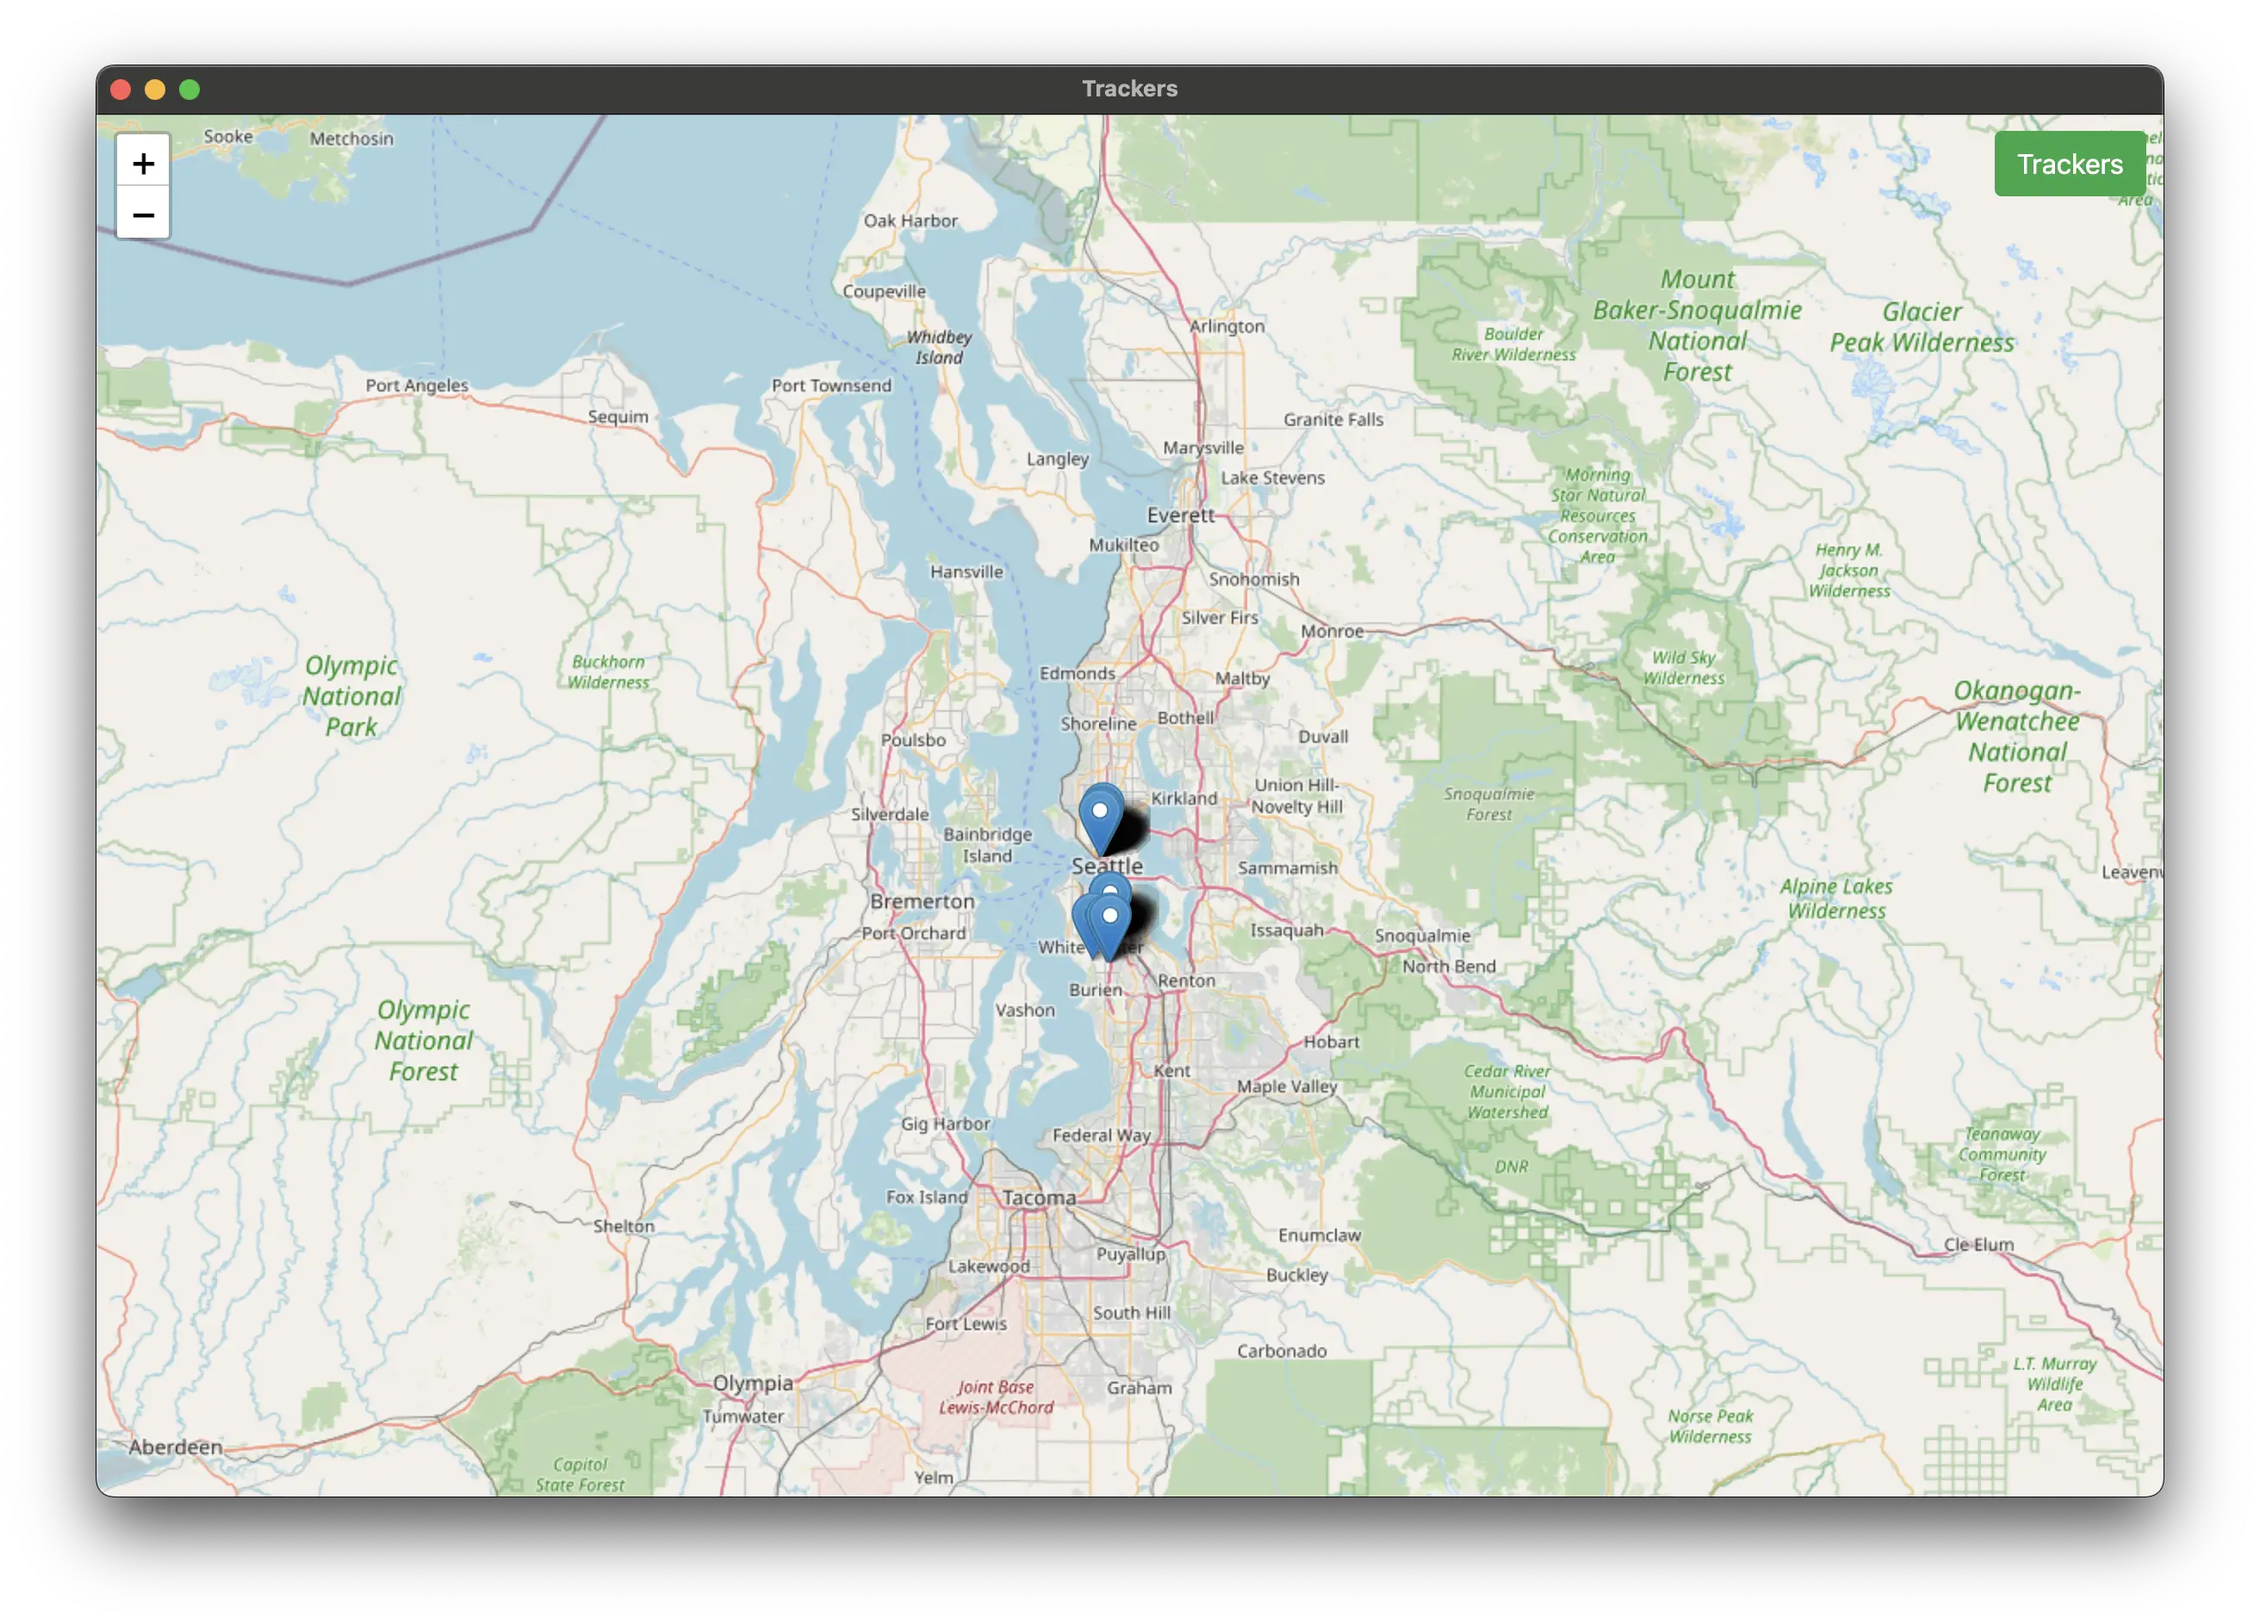
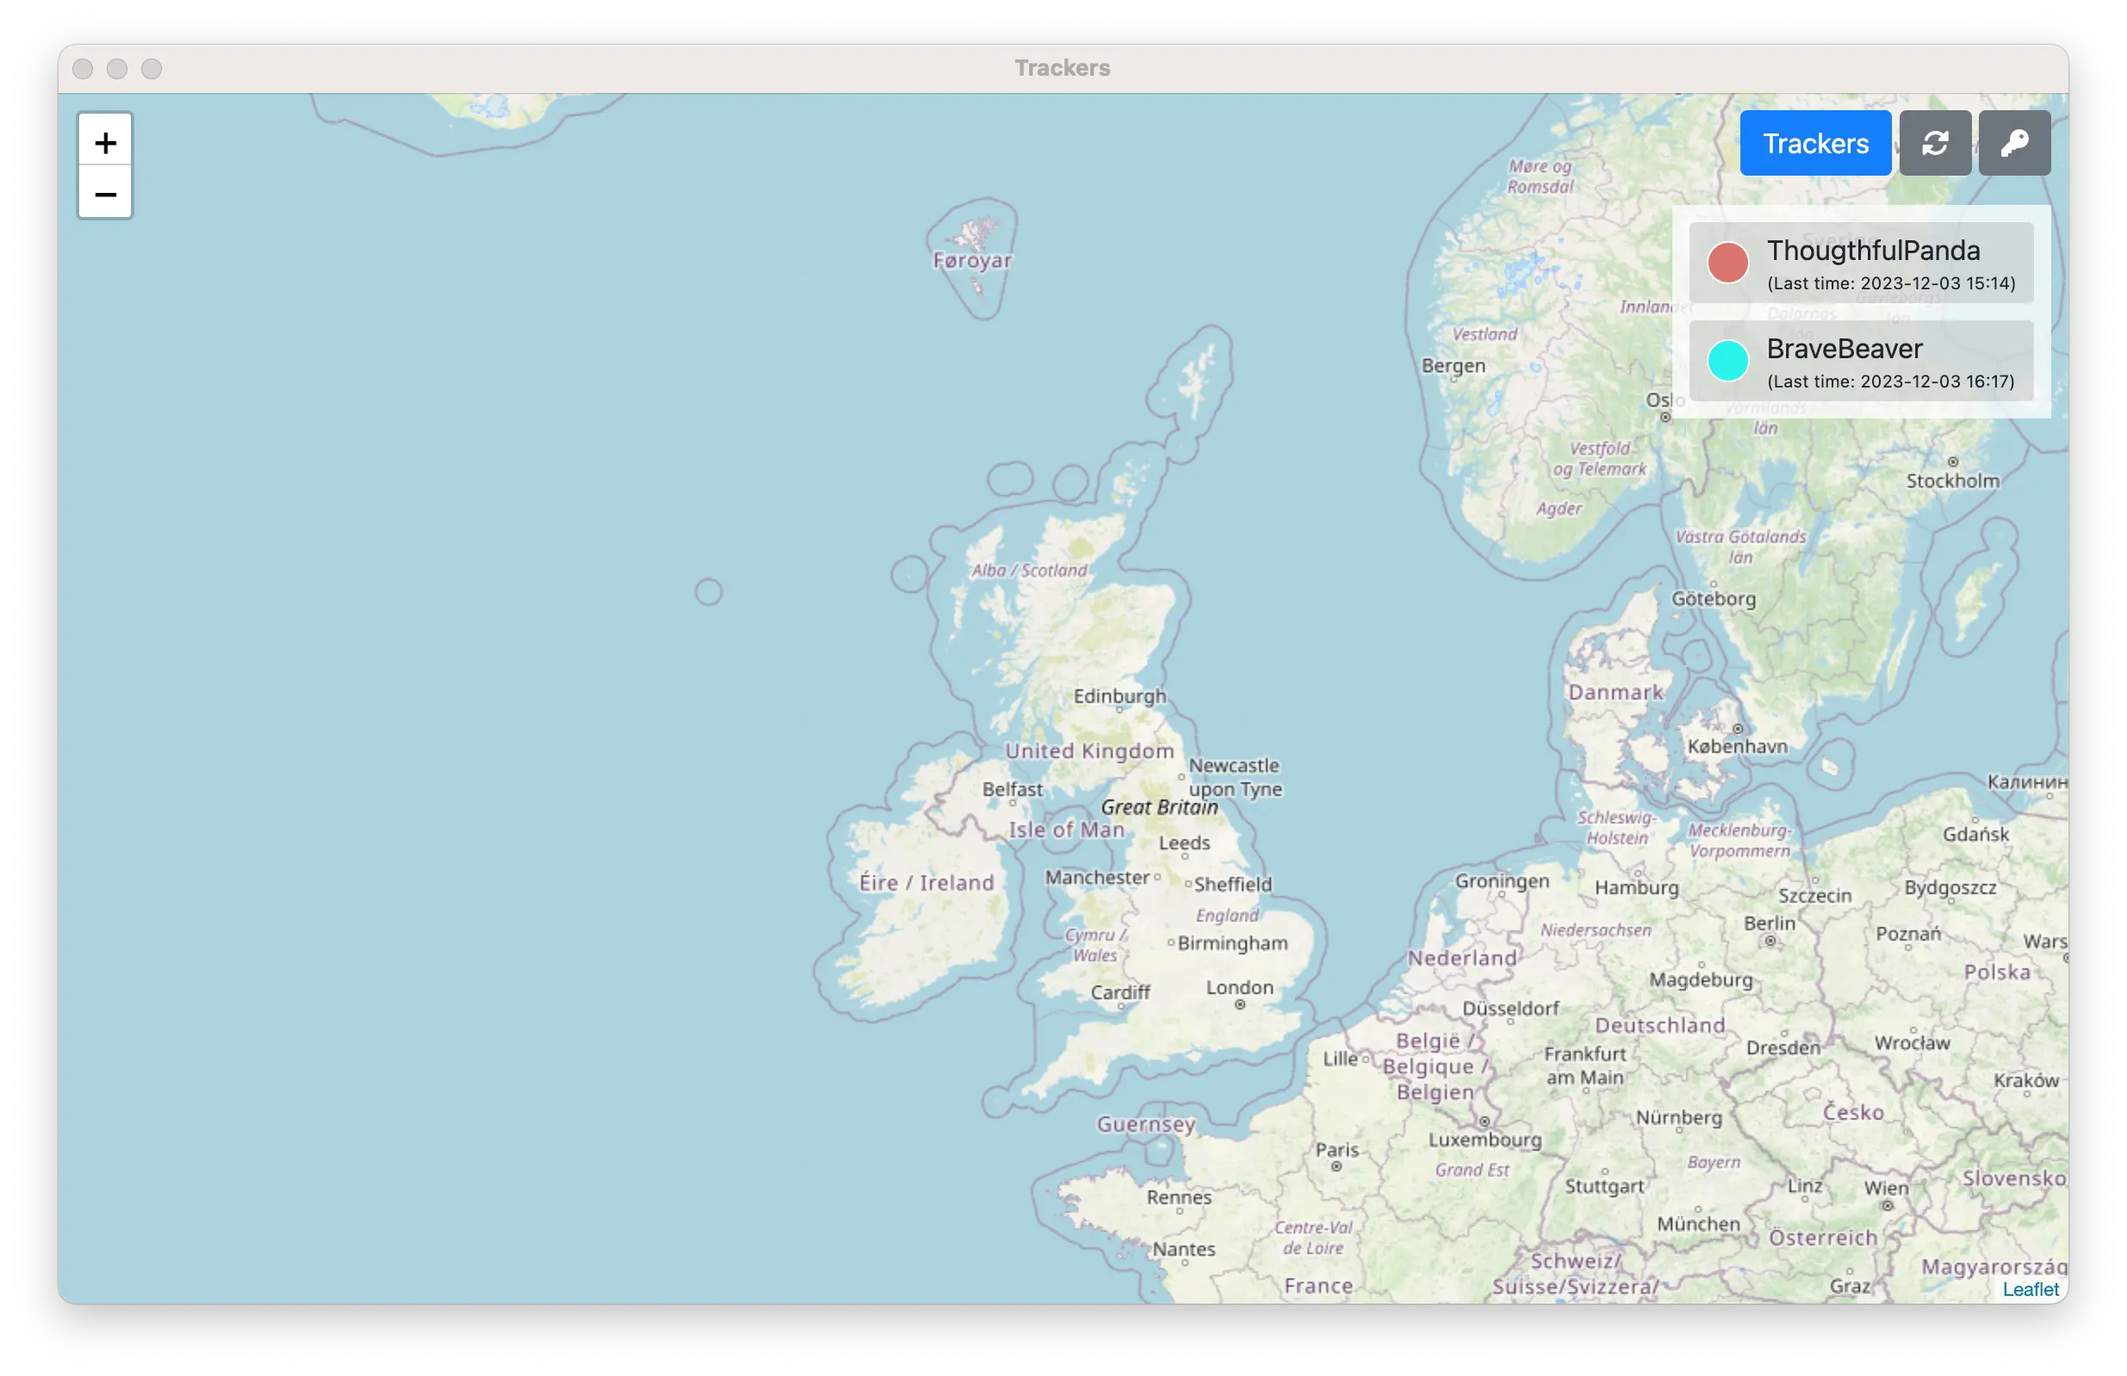
Update readme

diff --git a/web/index.html b/web/index.html
@@ -8,6 +8,7 @@
     <link href="https://stackpath.bootstrapcdn.com/bootstrap/4.5.2/css/bootstrap.min.css" rel="stylesheet">
     <link rel="stylesheet" href="https://unpkg.com/leaflet@1.7.1/dist/leaflet.css" />
     <link rel="stylesheet" href="https://cdn.jsdelivr.net/npm/leaflet.locatecontrol/dist/L.Control.Locate.min.css" />
+    <link rel="stylesheet" href="https://cdnjs.cloudflare.com/ajax/libs/font-awesome/6.0.0-beta3/css/all.min.css">
 
     <style>
         .tracker:hover {
@@ -19,9 +20,14 @@
 <body>
     <div style="position: relative; height: 100vh;">
         <div id="map" style="height: 100%; width: 100%;"></div>
-        <div style=" z-index: 1000; position: absolute; top: 10px; right: 10px;">
+        <div id="controllPannel" style="z-index: 1000; position: absolute; top: 10px; right: 10px;">
             <button class="btn btn-primary" onclick="showDialog()">Trackers</button>
-            <button class="btn btn-secondary" onclick="fetchLocations()">Fetch</button>
+            <button class="btn btn-secondary" onclick="fetchLocations()">
+                <i class="fas fa-sync-alt"></i> <!-- Refresh icon -->
+            </button>
+            <button type="button" class="btn btn-secondary" onclick="showPasswordDialog()">
+                <i class="fas fa-key"></i> <!-- Key icon -->
+            </button>
         </div>
         <div id="tracker_list"
             style="position: absolute; top: 65px; right: 10px; z-index: 1000; background: rgb(255 255 255 / 75%); padding: 0 10px 10px;">

diff --git a/web/password.js b/web/password.js
@@ -1,15 +1,26 @@
+const PASSWORD_KEY="keychainPassword";
+
 function savePassword() {
-    localStorage.setItem("keychainPassword", document.getElementById("askPasswordDialogInput").value);
+    localStorage.setItem(PASSWORD_KEY, $("#askPasswordDialogInput").value);
     $("#askPasswordDialog").modal("hide");
 }
 
 function askPassword(message) {
-    return localStorage.getItem("keychainPassword")
+    return localStorage.getItem(PASSWORD_KEY)
+}
+
+function resetPassword() {
+    return localStorage.removeItem(PASSWORD_KEY)
+}
+
+function showPasswordDialog() {
+    $("#askPasswordDialogInput").value = localStorage.getItem(PASSWORD_KEY);
+    $("#askPasswordDialog").modal("show");
 }
 
 $(document).ready(() => {
-    if (!localStorage.getItem("keychainPassword")) {
-        $("#askPasswordDialog").modal("show");
+    if (!localStorage.getItem(PASSWORD_KEY)) {
+       showPasswordDialog();
     }
 });
 

diff --git a/README.md b/README.md
@@ -1,30 +1,14 @@
 # intro
 
-this app allows to see locations of the openhaystack trackers
+An app allows to see locations of the openhaystack trackers
 
 ![](img/b4add158-6f94-4d46-90cd-4ab8b51f82df.webp)
 
-# how to build a openhaystack tracker
-
-- [Nordic NRF51822 Airtag tutorial](https://dzianisv.github.io/notes/Embedded/Nordic-NRF51822-Airtag.html)
-- [openhaystack-toolkit](https://github.com/dzianisv/openhaystack-toolkit)
-
-# requirements
+# for users
 
 ```shell
-brew install python3
-python3 -m pip install pipenv
-git submodule update --init --recursive
-pipenv install
+./run.sh
 ```
-
-
-```shell
-pipenv install
-pipenv run python3 app.py
-```
-
-# Usage
 
 Click on the Trackers button and put the trackers configuration, for example
 ```json
@@ -38,3 +22,26 @@ Click on the Trackers button and put the trackers configuration, for example
 ```
 
 Then tracker positions has to be displayed on the map.
+
+
+# for developers 
+
+## how to build a openhaystack tracker
+
+- [Nordic NRF51822 Airtag tutorial](https://dzianisv.github.io/notes/Embedded/Nordic-NRF51822-Airtag.html)
+- [openhaystack-toolkit](https://github.com/dzianisv/openhaystack-toolkit)
+
+## dev requirements
+
+```shell
+brew install python3
+python3 -m pip install pipenv
+git submodule update --init --recursive
+pipenv install
+```
+
+
+```shell
+pipenv install
+pipenv run python3 app.py
+```
